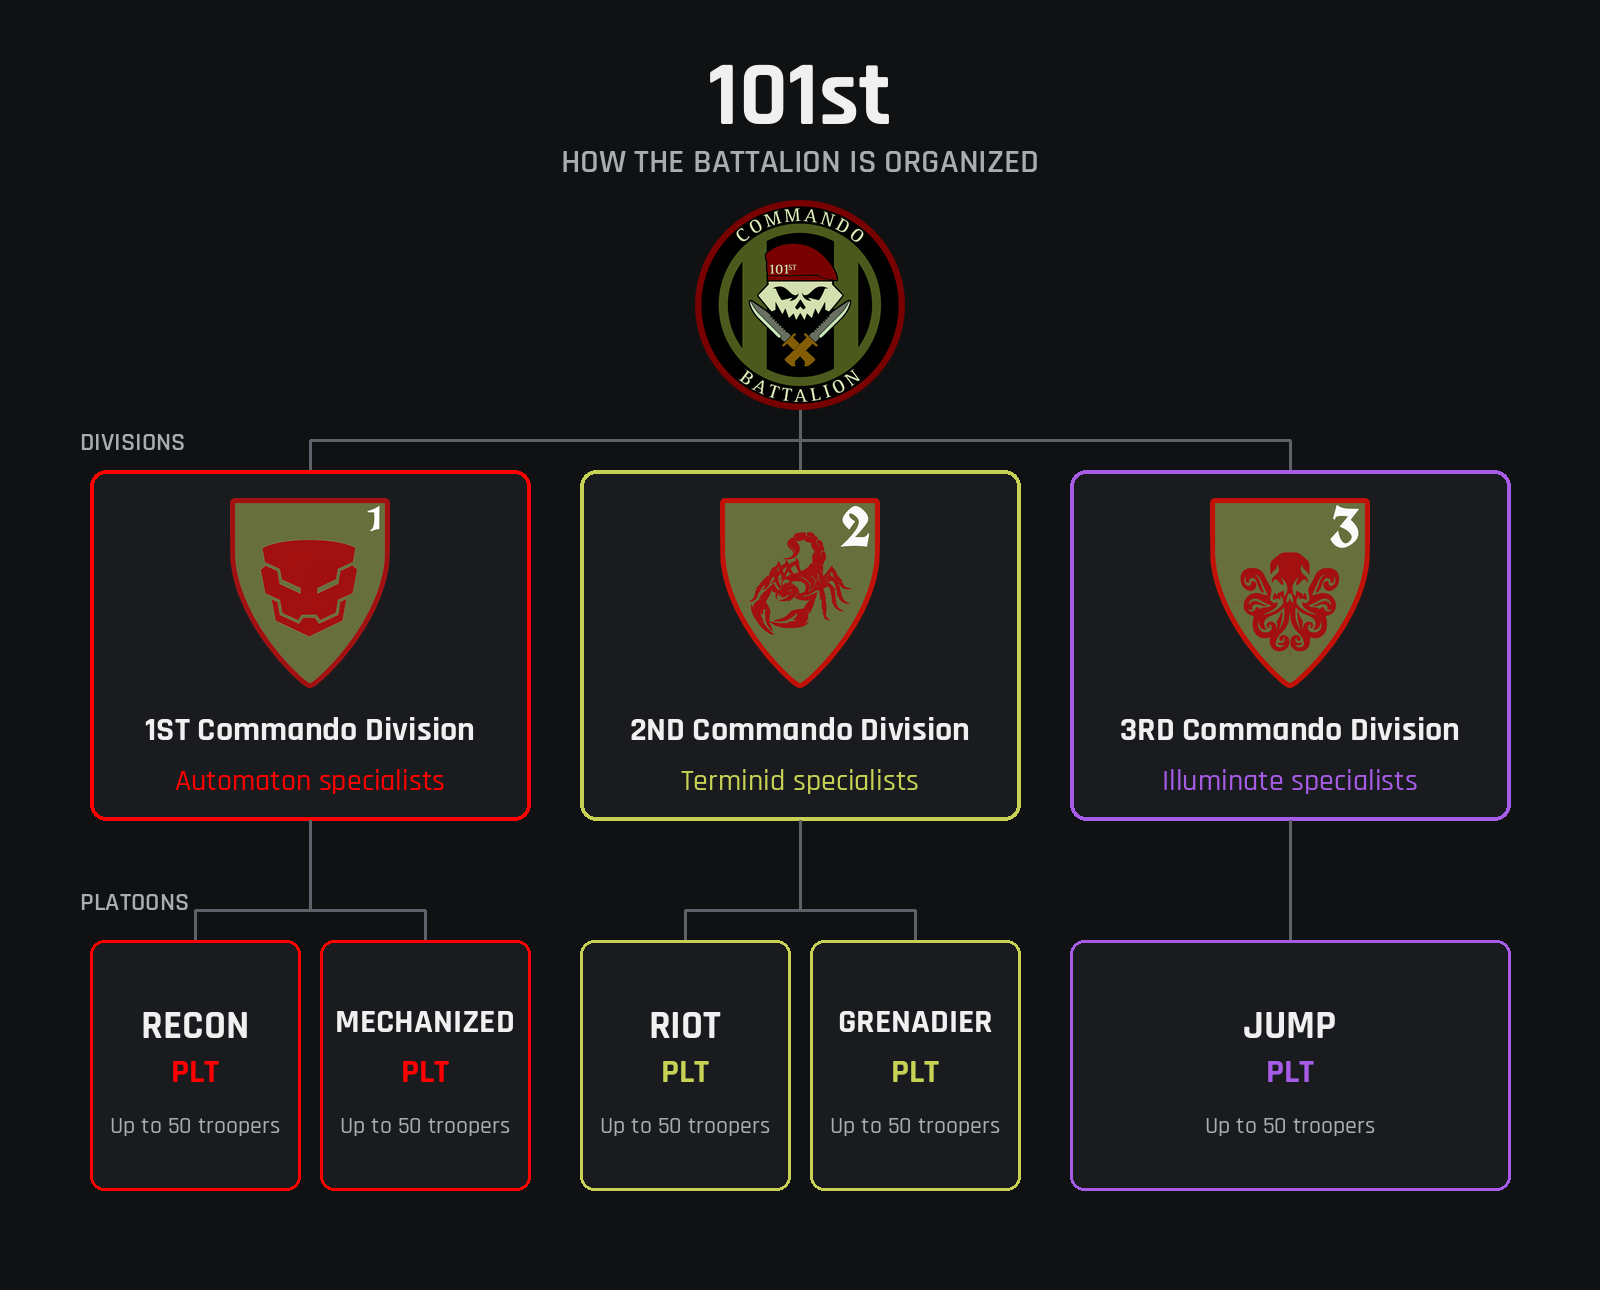
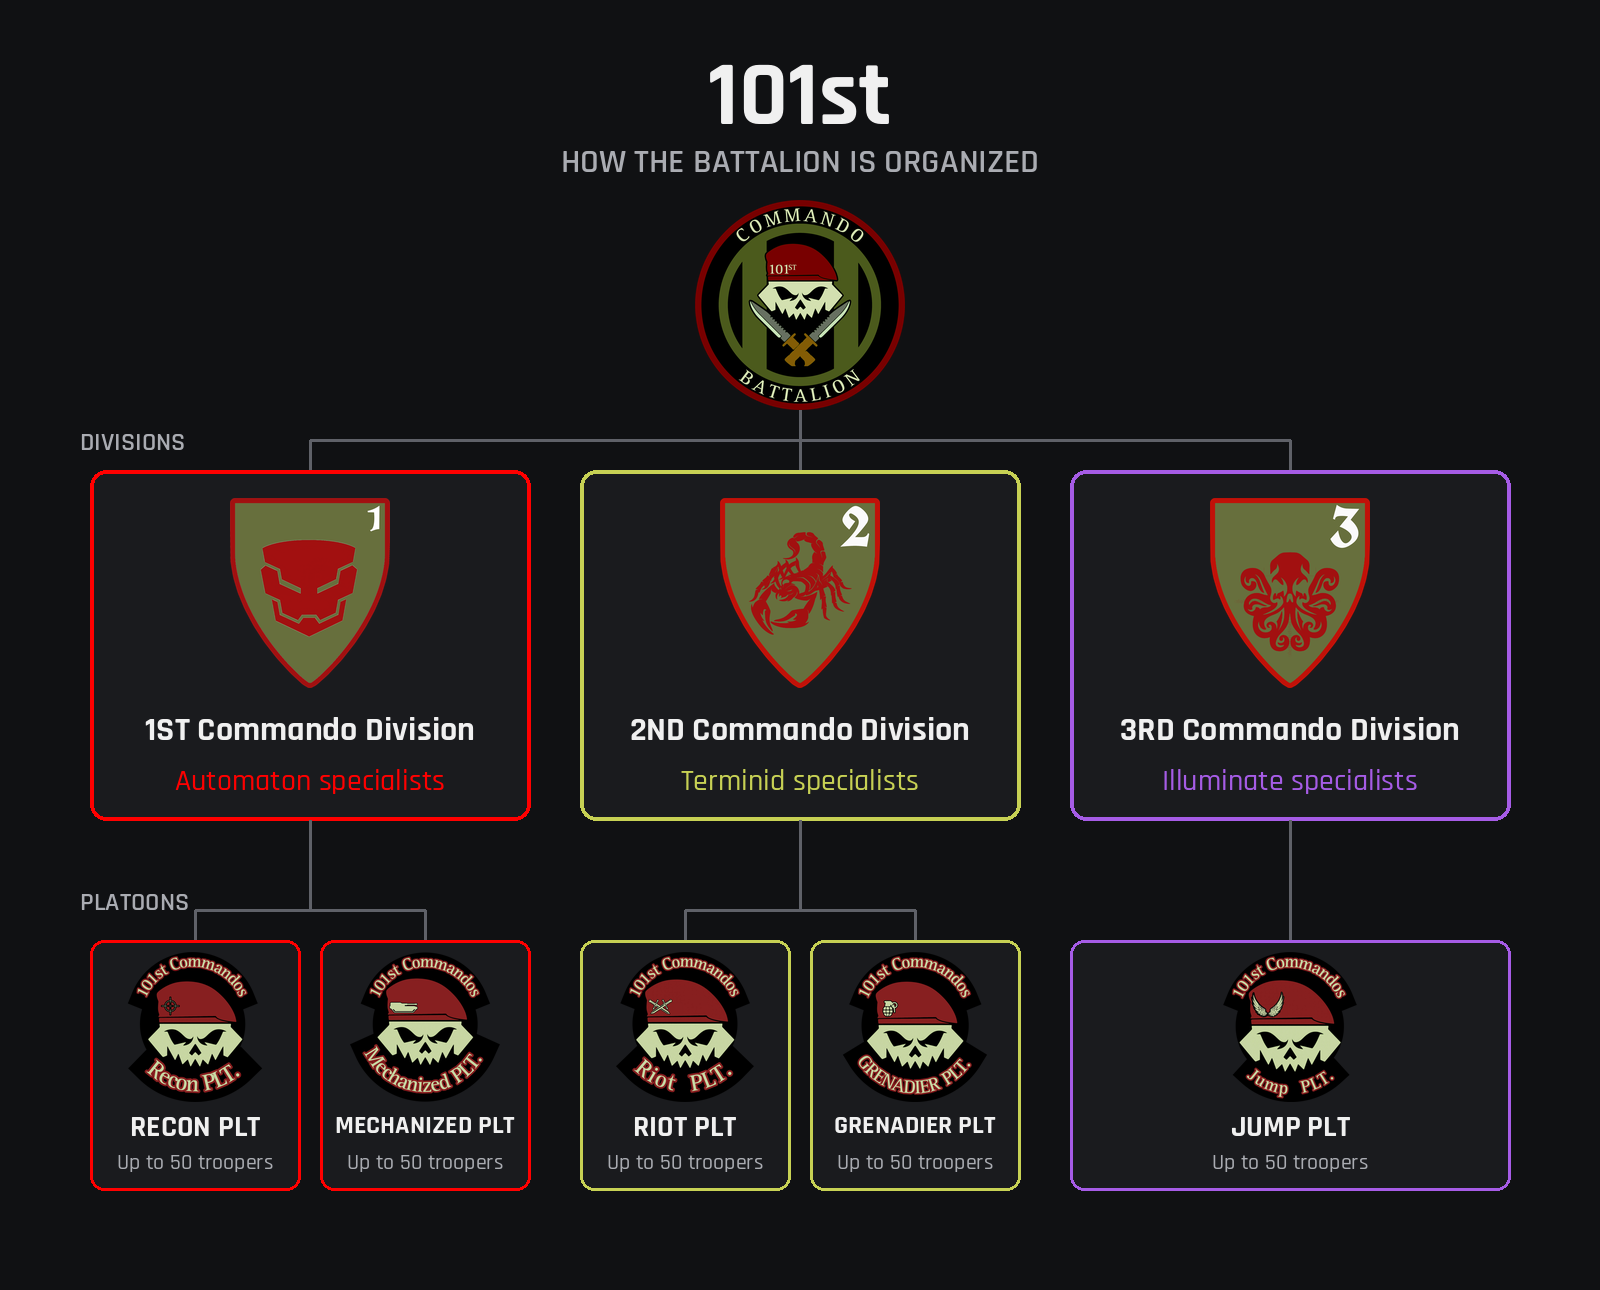
Add official platoon patches (Recon, Mechanized, Riot, Grenadier, Jump); re-render structure chart

diff --git a/index.html b/index.html
@@ -96,9 +96,9 @@
           <p><strong>The 101st Commando Battalion</strong> is a battalion split into three specialist divisions, each training for a single enemy front. Its platoons are capped at 50 troopers and run by Captains.</p>
           <img class="div-logo" src="logo.png" alt="101st Commando Battalion logo">
           <ul class="division-list">
-            <li><span class="div-dot div-dot-red" aria-hidden="true"></span><img class="div-patch" src="patches/1st-commando-division-olive.png" alt="1st Commando Division patch"><div><strong>1st Commando Division</strong> — Automaton specialists. Home of<br><span class="plt-badge">RECON PLT</span> <span class="plt-badge">MECHANIZED PLT</span></div></li>
-            <li><span class="div-dot div-dot-2nd" aria-hidden="true"></span><img class="div-patch" src="patches/2nd-commando-division-olive.png" alt="2nd Commando Division patch"><div><strong>2nd Commando Division</strong> — Terminid specialists. Home of<br><span class="plt-badge">RIOT PLT</span> <span class="plt-badge">GRENADIER PLT</span></div></li>
-            <li><span class="div-dot div-dot-3rd" aria-hidden="true"></span><img class="div-patch" src="patches/3rd-commando-division-olive.png" alt="3rd Commando Division patch"><div><strong>3rd Commando Division</strong> — Illuminate specialists. Home of<br><span class="plt-badge">JUMP PLT</span></div></li>
+            <li><span class="div-dot div-dot-red" aria-hidden="true"></span><img class="div-patch" src="patches/1st-commando-division-olive.png" alt="1st Commando Division patch"><div><strong>1st Commando Division</strong> — Automaton specialists. Home of<br><span class="plt-row"><figure class="plt-fig"><img src="patches/recon-plt.png" alt="Recon PLT patch"><figcaption>RECON PLT</figcaption></figure> <figure class="plt-fig"><img src="patches/mechanized-plt.png" alt="Mechanized PLT patch"><figcaption>MECHANIZED PLT</figcaption></figure></span></div></li>
+            <li><span class="div-dot div-dot-2nd" aria-hidden="true"></span><img class="div-patch" src="patches/2nd-commando-division-olive.png" alt="2nd Commando Division patch"><div><strong>2nd Commando Division</strong> — Terminid specialists. Home of<br><span class="plt-row"><figure class="plt-fig"><img src="patches/riot-plt.png" alt="Riot PLT patch"><figcaption>RIOT PLT</figcaption></figure> <figure class="plt-fig"><img src="patches/grenadier-plt.png" alt="Grenadier PLT patch"><figcaption>GRENADIER PLT</figcaption></figure></span></div></li>
+            <li><span class="div-dot div-dot-3rd" aria-hidden="true"></span><img class="div-patch" src="patches/3rd-commando-division-olive.png" alt="3rd Commando Division patch"><div><strong>3rd Commando Division</strong> — Illuminate specialists. Home of<br><span class="plt-row"><figure class="plt-fig"><img src="patches/jump-plt.png" alt="Jump PLT patch"><figcaption>JUMP PLT</figcaption></figure></span></div></li>
           </ul>
           <p>Pick the front you want to fight on.</p>
         </div>

diff --git a/styles.css b/styles.css
@@ -858,3 +858,8 @@ h2 { border-left: 4px solid var(--olive); padding-left: 0.6rem; }
 .div-patch { width: 3.4rem; height: 3.4rem; object-fit: contain; flex: none; }
 .div-logo { width: 7rem; height: 7rem; border-radius: 50%; box-shadow: 0 0 0 3px var(--ring-red); display: block; margin: 0.5rem 0; }
 .plt-badge { white-space: nowrap; display: inline-block; margin: 0.15rem 0.25rem 0.15rem 0; padding: 0.1rem 0.55rem; border: 1px solid var(--ring-red); background: var(--olive); color: var(--ink); font-family: var(--stencil); font-size: 0.8rem; letter-spacing: 0.08em; border-radius: 3px; }
+.plt-row { display: flex; flex-wrap: wrap; gap: 0.9rem; margin-top: 0.4rem; }
+.plt-fig { margin: 0; text-align: center; width: 8rem; }
+.plt-fig img { margin: 0 auto; }
+.plt-fig img { width: 6.5rem; height: 6.5rem; object-fit: contain; display: block; }
+.plt-fig figcaption { font-family: var(--stencil); font-size: 0.75rem; letter-spacing: 0.08em; color: var(--khaki); margin-top: 0.2rem; }
